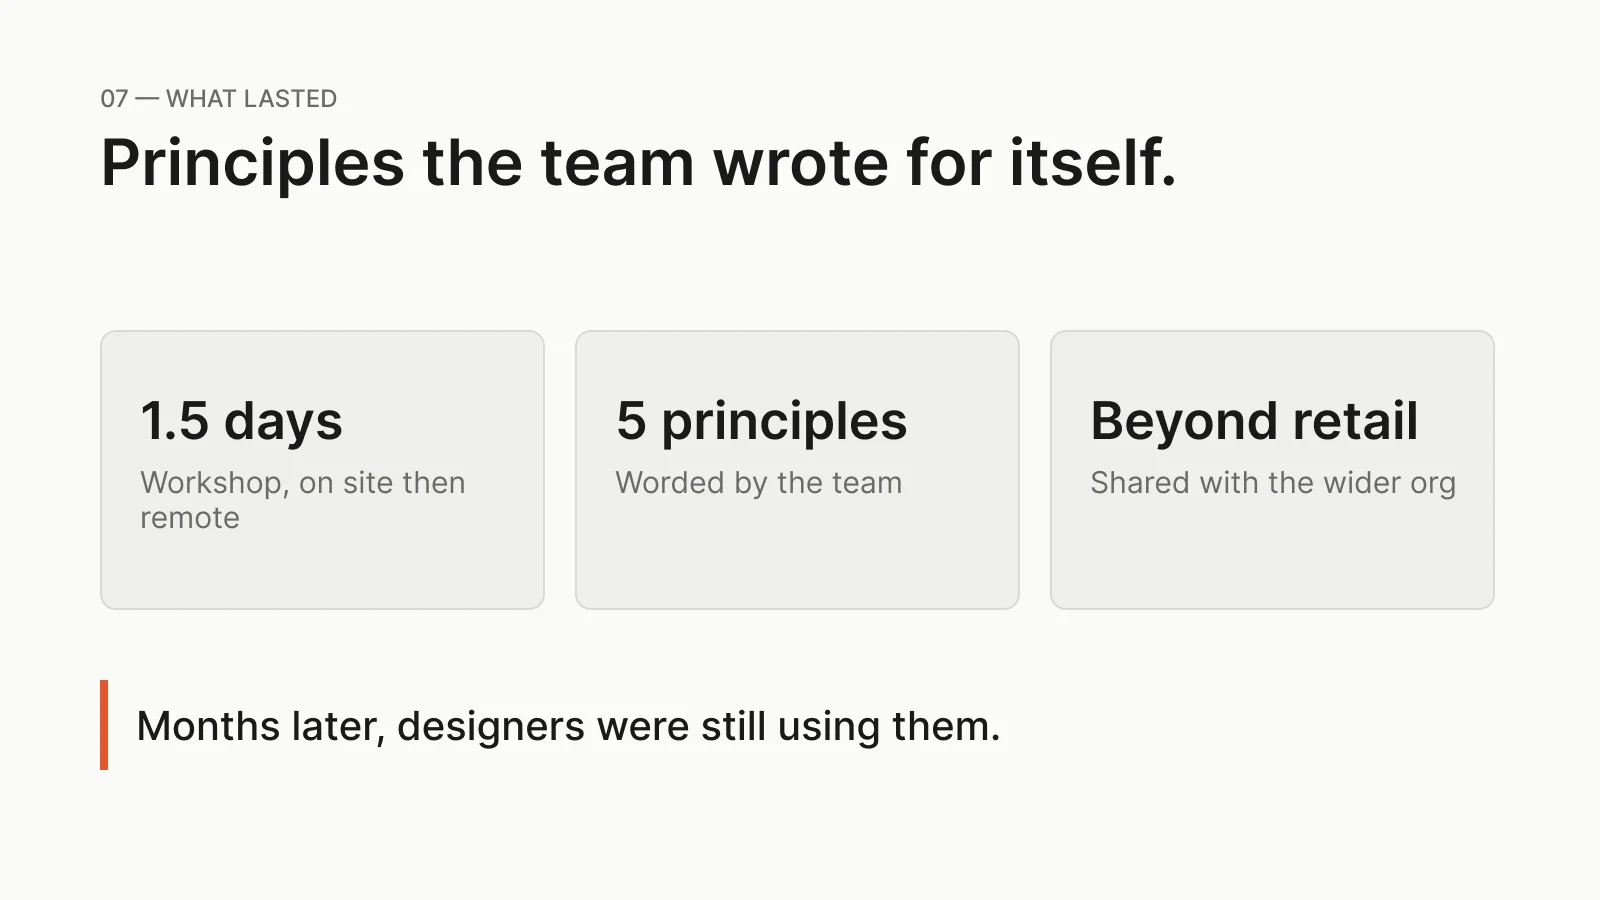
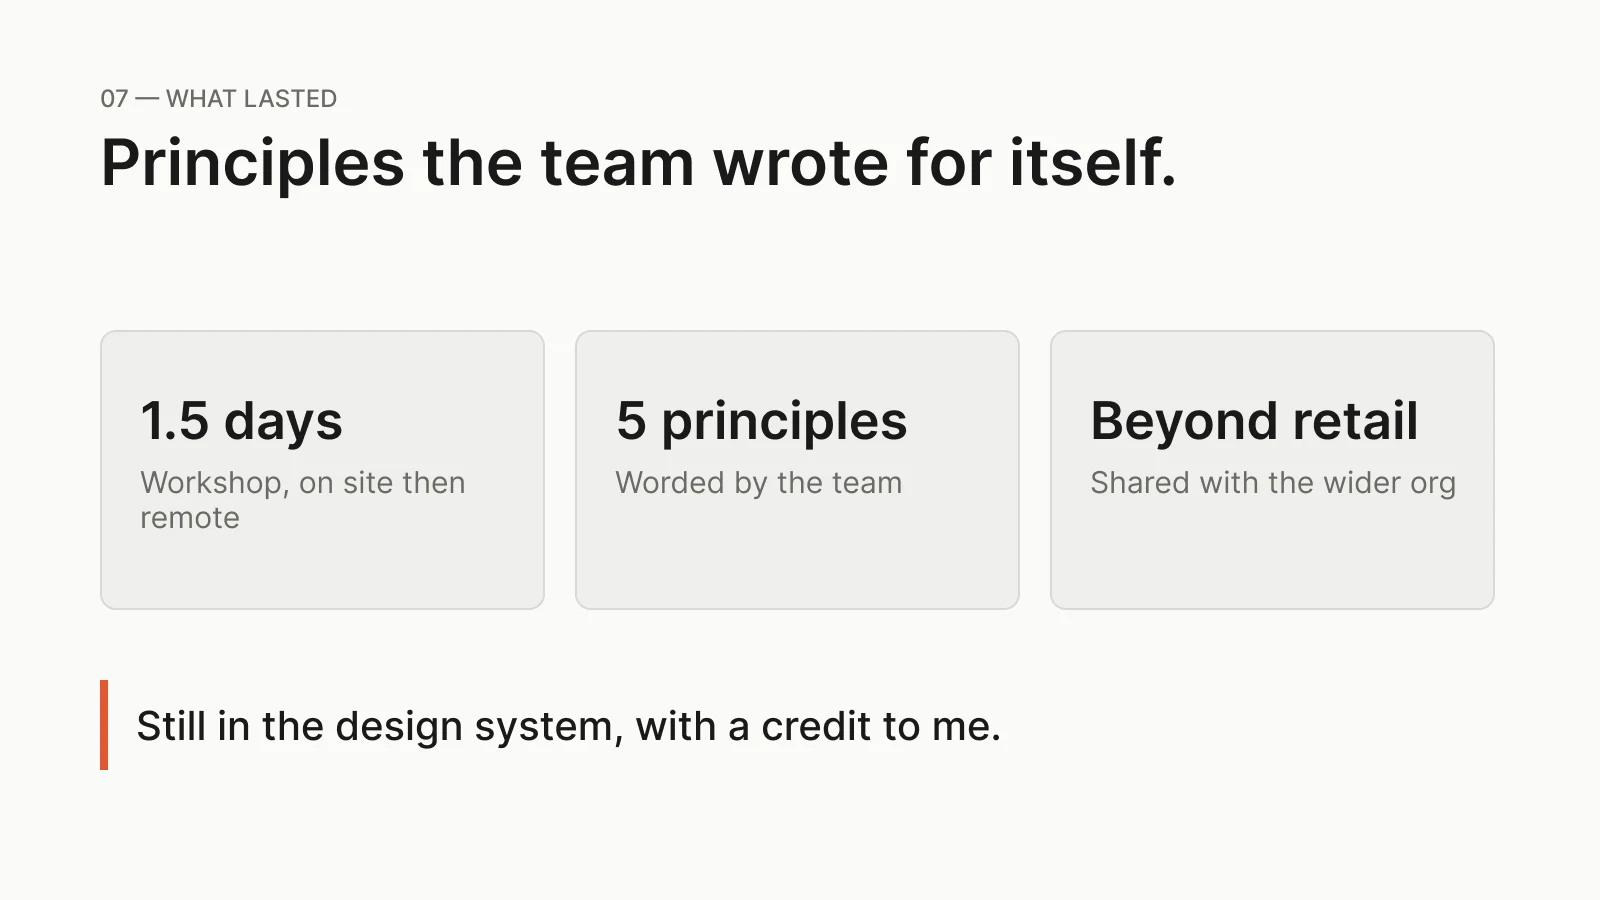
Coppel: principles still in the design system, credited
Claude-Session: https://claude.ai/code/session_01SVxtoQymuybJ25c4JipKrM

Changed region(s): [[0.0938, 0.7778, 0.625, 0.84]]

diff --git a/index.html b/index.html
@@ -220,7 +220,7 @@ var t=localStorage.getItem(k);if(t)document.documentElement.setAttribute('data-t
               <div class="car-slide" data-title="Who owns what" data-desc="Design reported to a director accountable for delivery. The people accountable for outcomes sat outside that line, so requirements arrived as decisions."><img src="assets/img/coppel-4.webp?v=3" width="1600" height="900" alt="Diagram: the delivery reporting line and the outcome line, with no reporting line crossing between them." loading="lazy" decoding="async"></div>
               <div class="car-slide" data-title="The method" data-desc="I validated the finding with product and technology counterparts first, so it reached leadership as a shared operating problem."><img src="assets/img/coppel-5.webp?v=3" width="1600" height="900" alt="Diagram: four steps, surface the gap, validate sideways, reframe it, then walk it up." loading="lazy" decoding="async"></div>
               <div class="car-slide" data-title="The recommendation" data-desc="Organize by channel, the way engineering already was, with a cross-channel guild owning the journey. Accepted, then deferred behind a CEO-led redesign."><img src="assets/img/coppel-6.webp?v=3" width="1600" height="900" alt="Diagram: six pods today versus proposed mobile, web, and kiosk teams under a cross-channel strategy guild." loading="lazy" decoding="async"></div>
-              <div class="car-slide" data-title="What lasted" data-desc="I facilitated a day-and-a-half workshop where the team wrote its own five design principles. Designers were still using them months later."><img src="assets/img/coppel-7.webp?v=3" width="1600" height="900" alt="Diagram: a 1.5-day workshop, five principles written by the team, presented beyond retail." loading="lazy" decoding="async"></div>
+              <div class="car-slide" data-title="What lasted" data-desc="I facilitated a day-and-a-half workshop where the team wrote its own five design principles. They're still in Coppel's design system."><img src="assets/img/coppel-7.webp?v=4" width="1600" height="900" alt="Diagram: a 1.5-day workshop, five principles written by the team, presented beyond retail." loading="lazy" decoding="async"></div>
             </div>
             <div class="car-info">
               <div class="car-text" aria-live="polite">
@@ -238,7 +238,7 @@ var t=localStorage.getItem(k);if(t)document.documentElement.setAttribute('data-t
         </figure>
         <ul class="points two">
           <li><h4>My part</h4><p>I ran a skills-gap assessment against that bar, then rewrote most of the design organization's job descriptions around quality and mentoring, with clear criteria for hiring and promotion. I also found that no one owned the journey across six phase-based pods, and led an operating-model proposal to fix it.</p></li>
-          <li><h4>What happened</h4><p>The new job descriptions were broadly agreed on, and my criteria were used to hire new senior managers, with me on the interview panel. The design principles I facilitated stuck. Leadership accepted the structural finding, but the reorganization was deferred behind a CEO-led redesign.</p></li>
+          <li><h4>What happened</h4><p>The new job descriptions were broadly agreed on, and my criteria were used to hire new senior managers, with me on the interview panel. The design principles I facilitated are still in Coppel's design system, which credits me for leading them. Leadership accepted the structural finding, but the reorganization was deferred behind a CEO-led redesign.</p></li>
         </ul>
         <ul class="stats">
           <li><strong>35</strong>-person design org</li>
